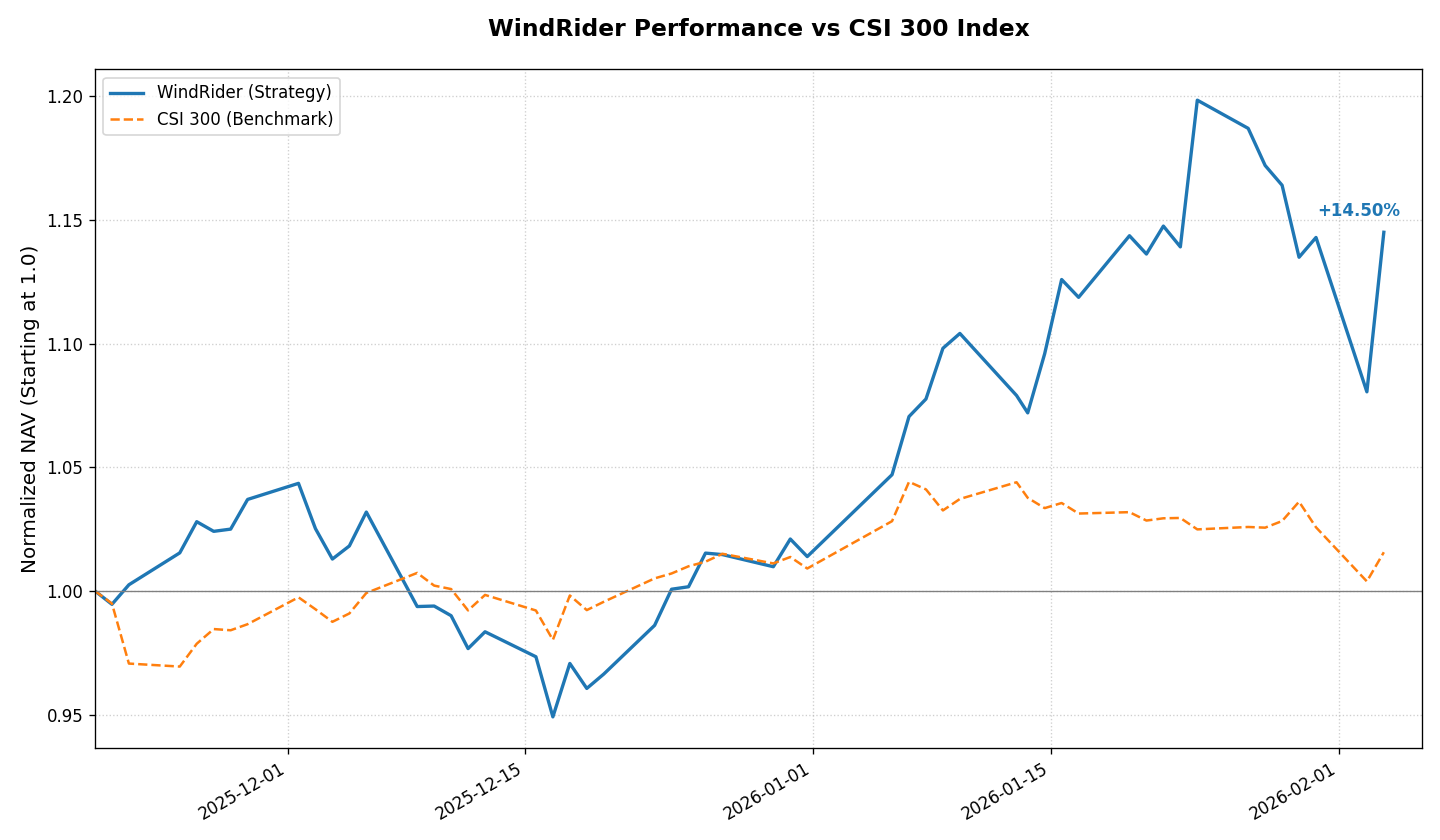
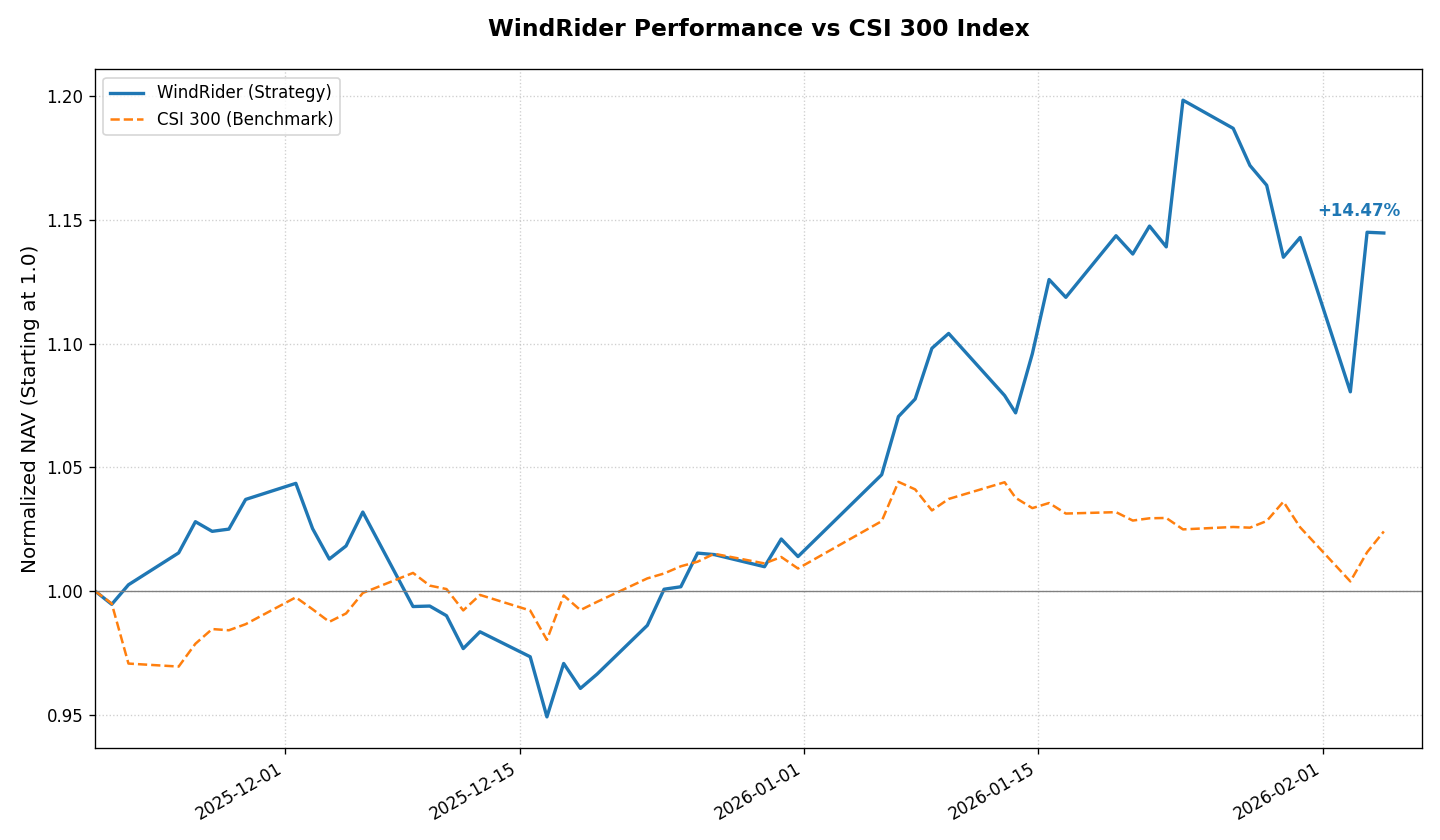
Updated Hugo site content

diff --git a/content/investment/position.md b/content/investment/position.md
@@ -1,8 +1,8 @@
 +++
 title = "持仓 Position"
 summary = "主动管理型股票组合。对标沪深300指数，采用基本面选股策略。"
-date = 2026-02-03T15:10:04+08:00
-lastmod = 2026-02-03T15:10:04+08:00
+date = 2026-02-04T15:10:04+08:00
+lastmod = 2026-02-04T15:10:04+08:00
 draft = false
 description = "WindRider Stock Portfolio"
 +++
@@ -12,30 +12,30 @@ description = "WindRider Stock Portfolio"
 
 ### 风舵股票组合 &nbsp;&nbsp;<span style="color: #E63946; font-weight: bold;">/</span><span style="color: #F1A73E; font-weight: bold;">/</span><span style="color: #000091; font-weight: bold;">/</span>&nbsp;&nbsp; 每日持仓
 WindRider Equity Portfolio <br>
-净值简报 <small>(截至: 2026-02-03)</small>
+净值简报 <small>(截至: 2026-02-04)</small>
 
 |  |  |
 | :--- | :--- |
 | **指数代码：** | WDR.EQ |
 | **成立日期：** | 2025-11-19 |
-| **最新净值：** | 1.1450 |
-| **今日涨跌：** | +5.97% |
+| **最新净值：** | 1.1447 |
+| **今日涨跌：** | -0.03% |
 
 ===========================
 
 | 核心表现 | |
 | :--- | :--- |
-| **累计收益：** | +14.50% |
-| **年化收益：** | +91.61% |
+| **累计收益：** | +14.47% |
+| **年化收益：** | +89.76% |
 | **最大回撤：** | -9.84% |
-| **基准点位：** | 4660.11 (CSI300) |
-| **策略状态：** | 已运行 77 天 |
+| **基准点位：** | 4698.68 (CSI300) |
+| **策略状态：** | 已运行 78 天 |
 
 ### 持仓明细
 | 股票名称 | 成本价 | 现价 | 盈亏 | 占比 |
 | :--- | :--- | :--- | :--- | :--- | :--- |
-| 先导智能 <small>300450</small> | 50.36 | 59.92 | <span style="color:#E63946">+18.98%</span> | 51.68% |
-| 新 和 成 <small>002001</small> | 24.84 | 27.40 | <span style="color:#E63946">+10.32%</span> | 47.27% |
+| 先导智能 <small>300450</small> | 50.36 | 59.29 | <span style="color:#E63946">+17.73%</span> | 51.15% |
+| 新 和 成 <small>002001</small> | 24.84 | 27.70 | <span style="color:#E63946">+11.52%</span> | 47.8% |
 
 <br>
 
